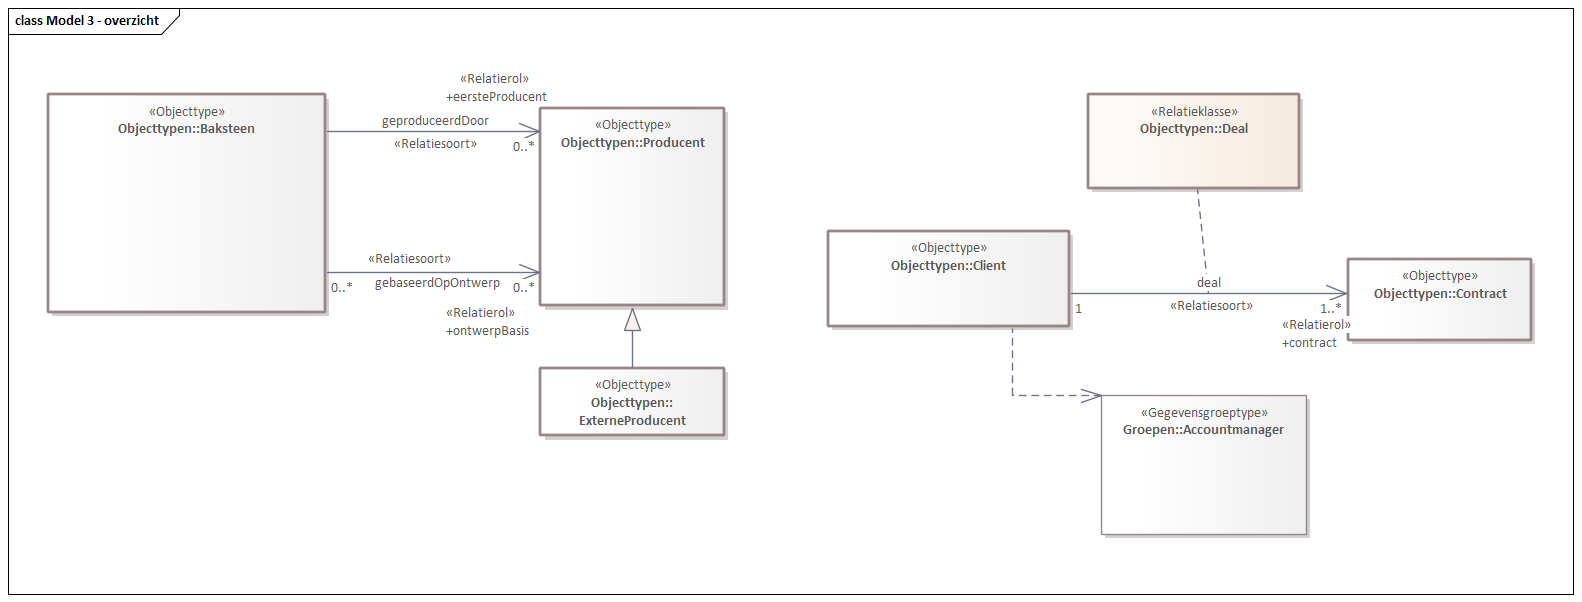
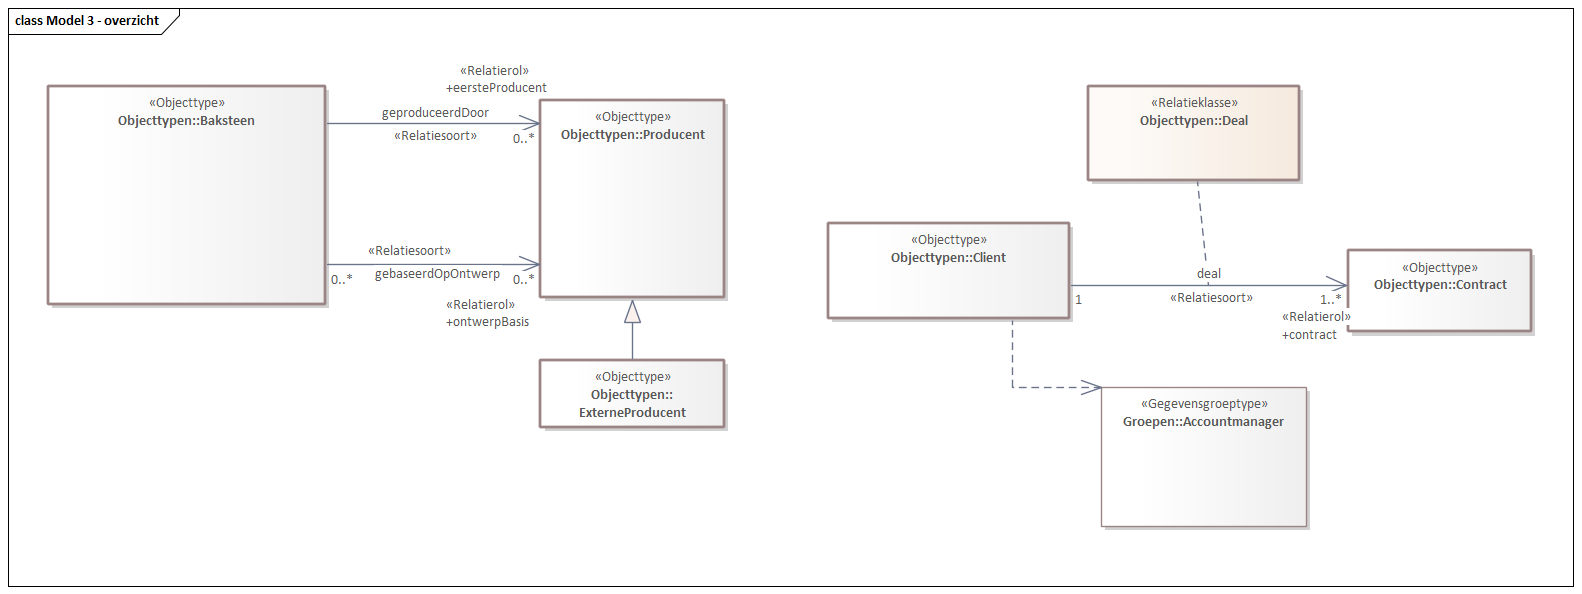
MIMLM-Bakstenenconceptueelmodel-1.0.0-2-20130318-20261003-111207

diff --git a/data/SAMPLE-cat.respec.full.html b/data/SAMPLE-cat.respec.full.html
@@ -2,7 +2,7 @@
                         var respecConfig = {
                             specStatus: "ED",
                             editors: [{
-                                name: "unspecified, Geonovum",
+                                name: "AdminGeonovum, Geonovum",
                                 url: "http://your.site/",
                             }],
                             edDraftURI: "http://some.place",
@@ -17,7 +17,7 @@
                             Status van dit document ...HIER INVOEGEN
                         </p></section><section id="prologue" class="informative" level="1"><h1>Proloog</h1><p>
                             Introductie ...HIER INVOEGEN
-                        </p></section><section id="cat" class="normative"><h2>Gegevensdefinitie</h2><!--MIMCM-Bakstenenconceptueelmodel-1.0.0-2-20130318-20261003-110517 imvertor Nightly-build.0--><section id="global_packages"><h3>Model   Bakstenen conceptueel model</h3><section id="EAID_08513AA0_8A50_46c1_AD86_9B80D9A6AAE1"><h4>   Model 3 - overzicht</h4><div class="imageinfo overview"><figure class="uml-diagram"><img id="img-EAID_08513AA0_8A50_46c1_AD86_9B80D9A6AAE1" src="data/Images/EAID_08513AA0_8A50_46c1_AD86_9B80D9A6AAE1.png" usemap="#imagemap-EAID_08513AA0_8A50_46c1_AD86_9B80D9A6AAE1" alt="Diagram: Uitleg van dit diagram &#34;Model 3&#34;."><figcaption> ‒ Diagram: Model 3</figcaption></figure><map name="imagemap-EAID_08513AA0_8A50_46c1_AD86_9B80D9A6AAE1"><area shape="rect" alt="Accountmanager" coords="1101,395,1307,535" href="#global_class_Contract_Accountmanager"><area shape="rect" alt="ExterneProducent" coords="540,368,725,436" href="#global_class_Baksteenproductie_ExterneProducent"><area shape="rect" alt="Baksteen" coords="48,94,326,313" href="#global_class_Baksteenproductie_Baksteen"><area shape="rect" alt="Producent" coords="540,108,725,306" href="#global_class_Baksteenproductie_Producent"><area shape="rect" alt="Deal" coords="1088,94,1300,189" href="#global_class_Contract_Deal"><area shape="rect" alt="Contract" coords="1348,259,1532,341" href="#global_class_Contract_Contract"><area shape="rect" alt="Client" coords="828,231,1070,327" href="#global_class_Contract_Client"></map><p>
+                        </p></section><section id="cat" class="normative"><h2>Gegevensdefinitie</h2><!--MIMLM-Bakstenenconceptueelmodel-1.0.0-2-20130318-20261003-111207 imvertor Nightly-build.0--><section id="global_packages"><h3>Model   Bakstenen conceptueel model</h3><section id="EAID_08513AA0_8A50_46c1_AD86_9B80D9A6AAE1"><h4>   Model 3 - overzicht</h4><div class="imageinfo overview"><figure class="uml-diagram"><img id="img-EAID_08513AA0_8A50_46c1_AD86_9B80D9A6AAE1" src="data/Images/EAID_08513AA0_8A50_46c1_AD86_9B80D9A6AAE1.png" usemap="#imagemap-EAID_08513AA0_8A50_46c1_AD86_9B80D9A6AAE1" alt="Diagram: Uitleg van dit diagram &#34;Model 3&#34;."><figcaption> ‒ Diagram: Model 3</figcaption></figure><map name="imagemap-EAID_08513AA0_8A50_46c1_AD86_9B80D9A6AAE1"><area shape="rect" alt="Accountmanager" coords="1101,387,1307,527" href="#global_class_Contract_Accountmanager"><area shape="rect" alt="ExterneProducent" coords="540,360,725,428" href="#global_class_Baksteenproductie_ExterneProducent"><area shape="rect" alt="Baksteen" coords="48,86,326,305" href="#global_class_Baksteenproductie_Baksteen"><area shape="rect" alt="Producent" coords="540,100,725,298" href="#global_class_Baksteenproductie_Producent"><area shape="rect" alt="Deal" coords="1088,86,1300,181" href="#global_class_Contract_Deal"><area shape="rect" alt="Contract" coords="1348,250,1532,332" href="#global_class_Contract_Contract"><area shape="rect" alt="Client" coords="828,223,1070,319" href="#global_class_Contract_Client"></map><p>
                         <p>Uitleg van dit diagram "<i>Model 3</i>".</p>
                         <p></p>
                         <p></p>
@@ -27,7 +27,7 @@
                         <p></p>
                      </p></div></section><section><h4>Objecttypen   </h4>
             <section id="global_class_Baksteenproductie_Baksteen"><h5>   Baksteen</h5>
-               <section id="EAID_EB759E5B_3FAA_4064_A73E_704926072F89"><h6>   Baksteen 2 - detail</h6><div class="imageinfo "><figure class="uml-diagram"><img id="img-EAID_EB759E5B_3FAA_4064_A73E_704926072F89" src="data/Images/EAID_EB759E5B_3FAA_4064_A73E_704926072F89.png" usemap="#imagemap-EAID_EB759E5B_3FAA_4064_A73E_704926072F89" alt="Diagram: Uitleg van dit diagram &#34;Baksteen 2&#34;."><figcaption> ‒ Diagram: Baksteen 2</figcaption></figure><map name="imagemap-EAID_EB759E5B_3FAA_4064_A73E_704926072F89"><area shape="rect" alt="Producent" coords="259,68,416,208" href="#global_class_Baksteenproductie_Producent"><area shape="rect" alt="Baksteen" coords="238,324,480,659" href="#global_class_Baksteenproductie_Baksteen"></map><p>
+               <section id="EAID_EB759E5B_3FAA_4064_A73E_704926072F89"><h6>   Baksteen 2 - detail</h6><div class="imageinfo "><figure class="uml-diagram"><img id="img-EAID_EB759E5B_3FAA_4064_A73E_704926072F89" src="data/Images/EAID_EB759E5B_3FAA_4064_A73E_704926072F89.png" usemap="#imagemap-EAID_EB759E5B_3FAA_4064_A73E_704926072F89" alt="Diagram: Uitleg van dit diagram &#34;Baksteen 2&#34;."><figcaption> ‒ Diagram: Baksteen 2</figcaption></figure><map name="imagemap-EAID_EB759E5B_3FAA_4064_A73E_704926072F89"><area shape="rect" alt="Producent" coords="164,68,322,208" href="#global_class_Baksteenproductie_Producent"><area shape="rect" alt="Baksteen" coords="144,324,386,659" href="#global_class_Baksteenproductie_Baksteen"></map><p>
                               <p>Uitleg van dit diagram "<i>Baksteen 2</i>".</p>
                               <p></p>
                               <p></p>
@@ -73,7 +73,7 @@
                         </td></tr></tbody></table>
                
                <h6>Overzicht constraints  </h6>
-                  <table style="width: 100%;"><colgroup style="width: 30%;"></colgroup><colgroup style="width: 70%;"></colgroup><tbody><tr><th scope="col">Naam</th><th scope="col">Uitleg</th></tr><tr><th scope="row"><a class="link" href="#detail_d22351e2583">
+                  <table style="width: 100%;"><colgroup style="width: 30%;"></colgroup><colgroup style="width: 70%;"></colgroup><tbody><tr><th scope="col">Naam</th><th scope="col">Uitleg</th></tr><tr><th scope="row"><a class="link" href="#detail_d22357e2583">
                               baksteen-constraint
                            </a></th><td></td></tr></tbody></table>
                
@@ -280,7 +280,7 @@
                                     <p>De eerste producent is de maker die als eerste met de baksteen op de markt is gekomen, en de steen nog levert.</p>
                                  </td></tr><tr><th scope="row">Herkomst definitie</th><td> </td></tr><tr><th scope="row">Datum opname</th><td> </td></tr><tr><th scope="row">Gerelateerd objecttype</th><td><a class="link" href="#global_class_Baksteenproductie_Producent">Producent</a></td></tr><tr><th scope="row">Kardinaliteit</th><td>0 .. *</td></tr><tr><th scope="row">Indicatie kardinaliteit bron</th><td>1</td></tr><tr><th scope="row">Indicatie authentiek</th><td>  </td></tr><tr><th scope="row">Mogelijk geen waarde</th><td>Nee</td></tr></tbody></table>
                   </div>
-                  <div class="deepheader" id="detail_d22351e2583"><strong>Constraint details  <a href="#global_class_Baksteenproductie_Baksteen">Baksteen</a> baksteen-constraint</strong>
+                  <div class="deepheader" id="detail_d22357e2583"><strong>Constraint details  <a href="#global_class_Baksteenproductie_Baksteen">Baksteen</a> baksteen-constraint</strong>
                      <table style="width: 100%;"><colgroup style="width: 30%;"></colgroup><colgroup style="width: 70%;"></colgroup><tbody><tr><th scope="row">OCL</th><td>Constraint op objecttype Baksteen.</td></tr></tbody></table>
                   </div>
                </section>
@@ -393,7 +393,7 @@
                   <table style="width: 100%;"><colgroup style="width: 50%;"></colgroup><colgroup style="width: 50%;"></colgroup><tbody><tr><th scope="col">Rol naam met kardinaliteiten</th><th scope="col">Definitie</th></tr><tr><td>Contract [ 1 ] <a class="link" href="#detail_association_Contract_Contract_adres2rol">adres1relatie: adres2rol</a> <a class="link" href="#global_class_Contract_Adres">Adres</a> [ 1 ]</td><td></td></tr></tbody></table>
                
                <h6>Overzicht constraints  </h6>
-                  <table style="width: 100%;"><colgroup style="width: 30%;"></colgroup><colgroup style="width: 70%;"></colgroup><tbody><tr><th scope="col">Naam</th><th scope="col">Uitleg</th></tr><tr><th scope="row"><a class="link" href="#detail_d22351e6543">
+                  <table style="width: 100%;"><colgroup style="width: 30%;"></colgroup><colgroup style="width: 70%;"></colgroup><tbody><tr><th scope="col">Naam</th><th scope="col">Uitleg</th></tr><tr><th scope="row"><a class="link" href="#detail_d22357e6543">
                               constraint1
                            </a></th><td> commentaar </td></tr></tbody></table>
                
@@ -423,7 +423,7 @@
                         </td><td>DAY</td><td>1</td></tr></tbody></table>
                
                <h6>Overzicht constraints  </h6>
-                  <table style="width: 100%;"><colgroup style="width: 30%;"></colgroup><colgroup style="width: 70%;"></colgroup><tbody><tr><th scope="col">Naam</th><th scope="col">Uitleg</th></tr><tr><th scope="row"><a class="link" href="#detail_d22351e7087">
+                  <table style="width: 100%;"><colgroup style="width: 30%;"></colgroup><colgroup style="width: 70%;"></colgroup><tbody><tr><th scope="col">Naam</th><th scope="col">Uitleg</th></tr><tr><th scope="row"><a class="link" href="#detail_d22357e7087">
                               constraint-relatieklasse
                            </a></th><td></td></tr></tbody></table>
                
@@ -449,7 +449,7 @@
                   <table style="width: 100%;"><colgroup style="width: 50%;"></colgroup><colgroup style="width: 50%;"></colgroup><tbody><tr><th scope="col">Rol naam met kardinaliteiten</th><th scope="col">Definitie</th></tr><tr><td>Accountmanager [ 1 ] <a class="link" href="#detail_association_Contract_Accountmanager_adres2rol">adres2relatie: adres2rol</a> <a class="link" href="#global_class_Contract_Adres">Adres</a> [ 1 ]</td><td></td></tr></tbody></table>
                
                <h6>Overzicht constraints  </h6>
-                  <table style="width: 100%;"><colgroup style="width: 30%;"></colgroup><colgroup style="width: 70%;"></colgroup><tbody><tr><th scope="col">Naam</th><th scope="col">Uitleg</th></tr><tr><th scope="row"><a class="link" href="#detail_d22351e5644">
+                  <table style="width: 100%;"><colgroup style="width: 30%;"></colgroup><colgroup style="width: 70%;"></colgroup><tbody><tr><th scope="col">Naam</th><th scope="col">Uitleg</th></tr><tr><th scope="row"><a class="link" href="#detail_d22357e5644">
                               Gegevensgroeptype-constraint
                            </a></th><td></td></tr></tbody></table>
                
@@ -477,7 +477,7 @@
                      
                      <table style="width: 100%;"><colgroup style="width: 30%;"></colgroup><colgroup style="width: 70%;"></colgroup><tbody><tr><th scope="row">Naam</th><td>adres1relatie</td></tr><tr><th scope="row">Herkomst</th><td> </td></tr><tr><th scope="row">Definitie</th><td> </td></tr><tr><th scope="row">Herkomst definitie</th><td> </td></tr><tr><th scope="row">Datum opname</th><td> </td></tr><tr><th scope="row">Gerelateerd objecttype</th><td><a class="link" href="#global_class_Contract_Adres">Adres</a></td></tr><tr><th scope="row">Kardinaliteit</th><td>1</td></tr><tr><th scope="row">Indicatie kardinaliteit bron</th><td>1</td></tr><tr><th scope="row">Indicatie authentiek</th><td>Authentiek</td></tr><tr><th scope="row">Mogelijk geen waarde</th><td>Nee</td></tr></tbody></table>
                   </div>
-                  <div class="deepheader" id="detail_d22351e6543"><strong>Constraint details  <a href="#global_class_Contract_Contract">Contract</a> constraint1</strong>
+                  <div class="deepheader" id="detail_d22357e6543"><strong>Constraint details  <a href="#global_class_Contract_Contract">Contract</a> constraint1</strong>
                      <table style="width: 100%;"><colgroup style="width: 30%;"></colgroup><colgroup style="width: 70%;"></colgroup><tbody><tr><th scope="row">Natuurlijke taal</th><td> commentaar </td></tr><tr><th scope="row">OCL</th><td> OCL of beschrijving van constraint1</td></tr></tbody></table>
                   </div>
                </section>
@@ -499,7 +499,7 @@
                      
                      <table style="width: 100%;"><colgroup style="width: 30%;"></colgroup><colgroup style="width: 70%;"></colgroup><tbody><tr><th scope="row">Naam</th><td>adres2relatie</td></tr><tr><th scope="row">Herkomst</th><td> </td></tr><tr><th scope="row">Definitie</th><td> </td></tr><tr><th scope="row">Herkomst definitie</th><td> </td></tr><tr><th scope="row">Datum opname</th><td> </td></tr><tr><th scope="row">Gerelateerd objecttype</th><td><a class="link" href="#global_class_Contract_Adres">Adres</a></td></tr><tr><th scope="row">Kardinaliteit</th><td>1</td></tr><tr><th scope="row">Indicatie kardinaliteit bron</th><td>1</td></tr><tr><th scope="row">Indicatie authentiek</th><td>Authentiek</td></tr><tr><th scope="row">Mogelijk geen waarde</th><td>Nee</td></tr></tbody></table>
                   </div>
-                  <div class="deepheader" id="detail_d22351e5644"><strong>Constraint details  <a href="#global_class_Contract_Accountmanager">Accountmanager</a> Gegevensgroeptype-constraint</strong>
+                  <div class="deepheader" id="detail_d22357e5644"><strong>Constraint details  <a href="#global_class_Contract_Accountmanager">Accountmanager</a> Gegevensgroeptype-constraint</strong>
                      <table style="width: 100%;"><colgroup style="width: 30%;"></colgroup><colgroup style="width: 70%;"></colgroup><tbody><tr><th scope="row">OCL</th><td>Constraint op gegevesngroeptype Accountmanager.</td></tr></tbody></table>
                   </div>
                </section>
@@ -526,7 +526,7 @@
                                     <p>De eerstvolgende dag dat voor de client een feest is.</p>
                                  </td></tr><tr><th scope="row">Herkomst definitie</th><td> </td></tr><tr><th scope="row">Datum opname</th><td> </td></tr><tr><th scope="row">Formaat</th><td>DAY</td></tr><tr><th scope="row">Patroon</th><td>De verzameling van waarden die gegevens van deze attribuutsoort kunnen hebben (bereik)  danwel moeten voldoen aan een specifiek patroon.</td></tr><tr><th scope="row">Kardinaliteit</th><td>1</td></tr><tr><th scope="row">Indicatie authentiek</th><td>  </td></tr><tr><th scope="row">Toelichting</th><td>Een inhoudelijke toelichting op de attribuutsoort.</td></tr><tr><th scope="row">Indicatie afleidbaar</th><td>Zie package</td></tr><tr><th scope="row">Indicatie classificerend</th><td> </td></tr><tr><th scope="row">Mogelijk geen waarde</th><td>Nee</td></tr><tr><th scope="row">Indicatie identificerend</th><td>Nee</td></tr></tbody></table>
                   </div>
-                  <div class="deepheader" id="detail_d22351e7087"><strong>Constraint details  <a href="#global_class_Contract_Deal">Deal</a> constraint-relatieklasse</strong>
+                  <div class="deepheader" id="detail_d22357e7087"><strong>Constraint details  <a href="#global_class_Contract_Deal">Deal</a> constraint-relatieklasse</strong>
                      <table style="width: 100%;"><colgroup style="width: 30%;"></colgroup><colgroup style="width: 70%;"></colgroup><tbody><tr><th scope="row">OCL</th><td>Constraint op relatieklasse Deal.</td></tr></tbody></table>
                   </div>
                </section>
@@ -534,7 +534,7 @@
             
             
             
-         </section></section></section><section id="lis" class="normative"><h2>Inhoud van waardelijsten</h2><!--MIMCM-Bakstenenconceptueelmodel-1.0.0-2-20130318-20261003-110517 imvertor Nightly-build.0--><section><h3>Referentielijst inhoud   </h3><section id="detail_class_Baksteenproductie_Baksteentype"><h4>Referentielijst  Baksteentype</h4>
+         </section></section></section><section id="lis" class="normative"><h2>Inhoud van waardelijsten</h2><!--MIMLM-Bakstenenconceptueelmodel-1.0.0-2-20130318-20261003-111207 imvertor Nightly-build.0--><section><h3>Referentielijst inhoud   </h3><section id="detail_class_Baksteenproductie_Baksteentype"><h4>Referentielijst  Baksteentype</h4>
             <table style="width: 100%;" class="list"><colgroup></colgroup><tbody><tr><td>
                         <p>Type van baksteen.</p>
                       

diff --git a/data/SAMPLE-cat.respec.html b/data/SAMPLE-cat.respec.html
@@ -1,4 +1,4 @@
-<!DOCTYPE HTML><section id="cat" class="normative"><h2>Gegevensdefinitie</h2><!--MIMCM-Bakstenenconceptueelmodel-1.0.0-2-20130318-20261003-110517 imvertor Nightly-build.0--><section id="global_packages"><h3>Model   Bakstenen conceptueel model</h3><section id="EAID_08513AA0_8A50_46c1_AD86_9B80D9A6AAE1"><h4>   Model 3 - overzicht</h4><div class="imageinfo overview"><figure class="uml-diagram"><img id="img-EAID_08513AA0_8A50_46c1_AD86_9B80D9A6AAE1" src="data/Images/EAID_08513AA0_8A50_46c1_AD86_9B80D9A6AAE1.png" usemap="#imagemap-EAID_08513AA0_8A50_46c1_AD86_9B80D9A6AAE1" alt="Diagram: Uitleg van dit diagram &#34;Model 3&#34;."><figcaption> ‒ Diagram: Model 3</figcaption></figure><map name="imagemap-EAID_08513AA0_8A50_46c1_AD86_9B80D9A6AAE1"><area shape="rect" alt="Accountmanager" coords="1101,395,1307,535" href="#global_class_Contract_Accountmanager"><area shape="rect" alt="ExterneProducent" coords="540,368,725,436" href="#global_class_Baksteenproductie_ExterneProducent"><area shape="rect" alt="Baksteen" coords="48,94,326,313" href="#global_class_Baksteenproductie_Baksteen"><area shape="rect" alt="Producent" coords="540,108,725,306" href="#global_class_Baksteenproductie_Producent"><area shape="rect" alt="Deal" coords="1088,94,1300,189" href="#global_class_Contract_Deal"><area shape="rect" alt="Contract" coords="1348,259,1532,341" href="#global_class_Contract_Contract"><area shape="rect" alt="Client" coords="828,231,1070,327" href="#global_class_Contract_Client"></map><p>
+<!DOCTYPE HTML><section id="cat" class="normative"><h2>Gegevensdefinitie</h2><!--MIMLM-Bakstenenconceptueelmodel-1.0.0-2-20130318-20261003-111207 imvertor Nightly-build.0--><section id="global_packages"><h3>Model   Bakstenen conceptueel model</h3><section id="EAID_08513AA0_8A50_46c1_AD86_9B80D9A6AAE1"><h4>   Model 3 - overzicht</h4><div class="imageinfo overview"><figure class="uml-diagram"><img id="img-EAID_08513AA0_8A50_46c1_AD86_9B80D9A6AAE1" src="data/Images/EAID_08513AA0_8A50_46c1_AD86_9B80D9A6AAE1.png" usemap="#imagemap-EAID_08513AA0_8A50_46c1_AD86_9B80D9A6AAE1" alt="Diagram: Uitleg van dit diagram &#34;Model 3&#34;."><figcaption> ‒ Diagram: Model 3</figcaption></figure><map name="imagemap-EAID_08513AA0_8A50_46c1_AD86_9B80D9A6AAE1"><area shape="rect" alt="Accountmanager" coords="1101,387,1307,527" href="#global_class_Contract_Accountmanager"><area shape="rect" alt="ExterneProducent" coords="540,360,725,428" href="#global_class_Baksteenproductie_ExterneProducent"><area shape="rect" alt="Baksteen" coords="48,86,326,305" href="#global_class_Baksteenproductie_Baksteen"><area shape="rect" alt="Producent" coords="540,100,725,298" href="#global_class_Baksteenproductie_Producent"><area shape="rect" alt="Deal" coords="1088,86,1300,181" href="#global_class_Contract_Deal"><area shape="rect" alt="Contract" coords="1348,250,1532,332" href="#global_class_Contract_Contract"><area shape="rect" alt="Client" coords="828,223,1070,319" href="#global_class_Contract_Client"></map><p>
                         <p>Uitleg van dit diagram "<i>Model 3</i>".</p>
                         <p></p>
                         <p></p>
@@ -8,7 +8,7 @@
                         <p></p>
                      </p></div></section><section><h4>Objecttypen   </h4>
             <section id="global_class_Baksteenproductie_Baksteen"><h5>   Baksteen</h5>
-               <section id="EAID_EB759E5B_3FAA_4064_A73E_704926072F89"><h6>   Baksteen 2 - detail</h6><div class="imageinfo "><figure class="uml-diagram"><img id="img-EAID_EB759E5B_3FAA_4064_A73E_704926072F89" src="data/Images/EAID_EB759E5B_3FAA_4064_A73E_704926072F89.png" usemap="#imagemap-EAID_EB759E5B_3FAA_4064_A73E_704926072F89" alt="Diagram: Uitleg van dit diagram &#34;Baksteen 2&#34;."><figcaption> ‒ Diagram: Baksteen 2</figcaption></figure><map name="imagemap-EAID_EB759E5B_3FAA_4064_A73E_704926072F89"><area shape="rect" alt="Producent" coords="259,68,416,208" href="#global_class_Baksteenproductie_Producent"><area shape="rect" alt="Baksteen" coords="238,324,480,659" href="#global_class_Baksteenproductie_Baksteen"></map><p>
+               <section id="EAID_EB759E5B_3FAA_4064_A73E_704926072F89"><h6>   Baksteen 2 - detail</h6><div class="imageinfo "><figure class="uml-diagram"><img id="img-EAID_EB759E5B_3FAA_4064_A73E_704926072F89" src="data/Images/EAID_EB759E5B_3FAA_4064_A73E_704926072F89.png" usemap="#imagemap-EAID_EB759E5B_3FAA_4064_A73E_704926072F89" alt="Diagram: Uitleg van dit diagram &#34;Baksteen 2&#34;."><figcaption> ‒ Diagram: Baksteen 2</figcaption></figure><map name="imagemap-EAID_EB759E5B_3FAA_4064_A73E_704926072F89"><area shape="rect" alt="Producent" coords="164,68,322,208" href="#global_class_Baksteenproductie_Producent"><area shape="rect" alt="Baksteen" coords="144,324,386,659" href="#global_class_Baksteenproductie_Baksteen"></map><p>
                               <p>Uitleg van dit diagram "<i>Baksteen 2</i>".</p>
                               <p></p>
                               <p></p>
@@ -54,7 +54,7 @@
                         </td></tr></tbody></table>
                
                <h6>Overzicht constraints  </h6>
-                  <table style="width: 100%;"><colgroup style="width: 30%;"></colgroup><colgroup style="width: 70%;"></colgroup><tbody><tr><th scope="col">Naam</th><th scope="col">Uitleg</th></tr><tr><th scope="row"><a class="link" href="#detail_d22351e2583">
+                  <table style="width: 100%;"><colgroup style="width: 30%;"></colgroup><colgroup style="width: 70%;"></colgroup><tbody><tr><th scope="col">Naam</th><th scope="col">Uitleg</th></tr><tr><th scope="row"><a class="link" href="#detail_d22357e2583">
                               baksteen-constraint
                            </a></th><td></td></tr></tbody></table>
                
@@ -261,7 +261,7 @@
                                     <p>De eerste producent is de maker die als eerste met de baksteen op de markt is gekomen, en de steen nog levert.</p>
                                  </td></tr><tr><th scope="row">Herkomst definitie</th><td> </td></tr><tr><th scope="row">Datum opname</th><td> </td></tr><tr><th scope="row">Gerelateerd objecttype</th><td><a class="link" href="#global_class_Baksteenproductie_Producent">Producent</a></td></tr><tr><th scope="row">Kardinaliteit</th><td>0 .. *</td></tr><tr><th scope="row">Indicatie kardinaliteit bron</th><td>1</td></tr><tr><th scope="row">Indicatie authentiek</th><td>  </td></tr><tr><th scope="row">Mogelijk geen waarde</th><td>Nee</td></tr></tbody></table>
                   </div>
-                  <div class="deepheader" id="detail_d22351e2583"><strong>Constraint details  <a href="#global_class_Baksteenproductie_Baksteen">Baksteen</a> baksteen-constraint</strong>
+                  <div class="deepheader" id="detail_d22357e2583"><strong>Constraint details  <a href="#global_class_Baksteenproductie_Baksteen">Baksteen</a> baksteen-constraint</strong>
                      <table style="width: 100%;"><colgroup style="width: 30%;"></colgroup><colgroup style="width: 70%;"></colgroup><tbody><tr><th scope="row">OCL</th><td>Constraint op objecttype Baksteen.</td></tr></tbody></table>
                   </div>
                </section>
@@ -374,7 +374,7 @@
                   <table style="width: 100%;"><colgroup style="width: 50%;"></colgroup><colgroup style="width: 50%;"></colgroup><tbody><tr><th scope="col">Rol naam met kardinaliteiten</th><th scope="col">Definitie</th></tr><tr><td>Contract [ 1 ] <a class="link" href="#detail_association_Contract_Contract_adres2rol">adres1relatie: adres2rol</a> <a class="link" href="#global_class_Contract_Adres">Adres</a> [ 1 ]</td><td></td></tr></tbody></table>
                
                <h6>Overzicht constraints  </h6>
-                  <table style="width: 100%;"><colgroup style="width: 30%;"></colgroup><colgroup style="width: 70%;"></colgroup><tbody><tr><th scope="col">Naam</th><th scope="col">Uitleg</th></tr><tr><th scope="row"><a class="link" href="#detail_d22351e6543">
+                  <table style="width: 100%;"><colgroup style="width: 30%;"></colgroup><colgroup style="width: 70%;"></colgroup><tbody><tr><th scope="col">Naam</th><th scope="col">Uitleg</th></tr><tr><th scope="row"><a class="link" href="#detail_d22357e6543">
                               constraint1
                            </a></th><td> commentaar </td></tr></tbody></table>
                
@@ -404,7 +404,7 @@
                         </td><td>DAY</td><td>1</td></tr></tbody></table>
                
                <h6>Overzicht constraints  </h6>
-                  <table style="width: 100%;"><colgroup style="width: 30%;"></colgroup><colgroup style="width: 70%;"></colgroup><tbody><tr><th scope="col">Naam</th><th scope="col">Uitleg</th></tr><tr><th scope="row"><a class="link" href="#detail_d22351e7087">
+                  <table style="width: 100%;"><colgroup style="width: 30%;"></colgroup><colgroup style="width: 70%;"></colgroup><tbody><tr><th scope="col">Naam</th><th scope="col">Uitleg</th></tr><tr><th scope="row"><a class="link" href="#detail_d22357e7087">
                               constraint-relatieklasse
                            </a></th><td></td></tr></tbody></table>
                
@@ -430,7 +430,7 @@
                   <table style="width: 100%;"><colgroup style="width: 50%;"></colgroup><colgroup style="width: 50%;"></colgroup><tbody><tr><th scope="col">Rol naam met kardinaliteiten</th><th scope="col">Definitie</th></tr><tr><td>Accountmanager [ 1 ] <a class="link" href="#detail_association_Contract_Accountmanager_adres2rol">adres2relatie: adres2rol</a> <a class="link" href="#global_class_Contract_Adres">Adres</a> [ 1 ]</td><td></td></tr></tbody></table>
                
                <h6>Overzicht constraints  </h6>
-                  <table style="width: 100%;"><colgroup style="width: 30%;"></colgroup><colgroup style="width: 70%;"></colgroup><tbody><tr><th scope="col">Naam</th><th scope="col">Uitleg</th></tr><tr><th scope="row"><a class="link" href="#detail_d22351e5644">
+                  <table style="width: 100%;"><colgroup style="width: 30%;"></colgroup><colgroup style="width: 70%;"></colgroup><tbody><tr><th scope="col">Naam</th><th scope="col">Uitleg</th></tr><tr><th scope="row"><a class="link" href="#detail_d22357e5644">
                               Gegevensgroeptype-constraint
                            </a></th><td></td></tr></tbody></table>
                
@@ -458,7 +458,7 @@
                      
                      <table style="width: 100%;"><colgroup style="width: 30%;"></colgroup><colgroup style="width: 70%;"></colgroup><tbody><tr><th scope="row">Naam</th><td>adres1relatie</td></tr><tr><th scope="row">Herkomst</th><td> </td></tr><tr><th scope="row">Definitie</th><td> </td></tr><tr><th scope="row">Herkomst definitie</th><td> </td></tr><tr><th scope="row">Datum opname</th><td> </td></tr><tr><th scope="row">Gerelateerd objecttype</th><td><a class="link" href="#global_class_Contract_Adres">Adres</a></td></tr><tr><th scope="row">Kardinaliteit</th><td>1</td></tr><tr><th scope="row">Indicatie kardinaliteit bron</th><td>1</td></tr><tr><th scope="row">Indicatie authentiek</th><td>Authentiek</td></tr><tr><th scope="row">Mogelijk geen waarde</th><td>Nee</td></tr></tbody></table>
                   </div>
-                  <div class="deepheader" id="detail_d22351e6543"><strong>Constraint details  <a href="#global_class_Contract_Contract">Contract</a> constraint1</strong>
+                  <div class="deepheader" id="detail_d22357e6543"><strong>Constraint details  <a href="#global_class_Contract_Contract">Contract</a> constraint1</strong>
                      <table style="width: 100%;"><colgroup style="width: 30%;"></colgroup><colgroup style="width: 70%;"></colgroup><tbody><tr><th scope="row">Natuurlijke taal</th><td> commentaar </td></tr><tr><th scope="row">OCL</th><td> OCL of beschrijving van constraint1</td></tr></tbody></table>
                   </div>
                </section>
@@ -480,7 +480,7 @@
                      
                      <table style="width: 100%;"><colgroup style="width: 30%;"></colgroup><colgroup style="width: 70%;"></colgroup><tbody><tr><th scope="row">Naam</th><td>adres2relatie</td></tr><tr><th scope="row">Herkomst</th><td> </td></tr><tr><th scope="row">Definitie</th><td> </td></tr><tr><th scope="row">Herkomst definitie</th><td> </td></tr><tr><th scope="row">Datum opname</th><td> </td></tr><tr><th scope="row">Gerelateerd objecttype</th><td><a class="link" href="#global_class_Contract_Adres">Adres</a></td></tr><tr><th scope="row">Kardinaliteit</th><td>1</td></tr><tr><th scope="row">Indicatie kardinaliteit bron</th><td>1</td></tr><tr><th scope="row">Indicatie authentiek</th><td>Authentiek</td></tr><tr><th scope="row">Mogelijk geen waarde</th><td>Nee</td></tr></tbody></table>
                   </div>
-                  <div class="deepheader" id="detail_d22351e5644"><strong>Constraint details  <a href="#global_class_Contract_Accountmanager">Accountmanager</a> Gegevensgroeptype-constraint</strong>
+                  <div class="deepheader" id="detail_d22357e5644"><strong>Constraint details  <a href="#global_class_Contract_Accountmanager">Accountmanager</a> Gegevensgroeptype-constraint</strong>
                      <table style="width: 100%;"><colgroup style="width: 30%;"></colgroup><colgroup style="width: 70%;"></colgroup><tbody><tr><th scope="row">OCL</th><td>Constraint op gegevesngroeptype Accountmanager.</td></tr></tbody></table>
                   </div>
                </section>
@@ -507,7 +507,7 @@
                                     <p>De eerstvolgende dag dat voor de client een feest is.</p>
                                  </td></tr><tr><th scope="row">Herkomst definitie</th><td> </td></tr><tr><th scope="row">Datum opname</th><td> </td></tr><tr><th scope="row">Formaat</th><td>DAY</td></tr><tr><th scope="row">Patroon</th><td>De verzameling van waarden die gegevens van deze attribuutsoort kunnen hebben (bereik)  danwel moeten voldoen aan een specifiek patroon.</td></tr><tr><th scope="row">Kardinaliteit</th><td>1</td></tr><tr><th scope="row">Indicatie authentiek</th><td>  </td></tr><tr><th scope="row">Toelichting</th><td>Een inhoudelijke toelichting op de attribuutsoort.</td></tr><tr><th scope="row">Indicatie afleidbaar</th><td>Zie package</td></tr><tr><th scope="row">Indicatie classificerend</th><td> </td></tr><tr><th scope="row">Mogelijk geen waarde</th><td>Nee</td></tr><tr><th scope="row">Indicatie identificerend</th><td>Nee</td></tr></tbody></table>
                   </div>
-                  <div class="deepheader" id="detail_d22351e7087"><strong>Constraint details  <a href="#global_class_Contract_Deal">Deal</a> constraint-relatieklasse</strong>
+                  <div class="deepheader" id="detail_d22357e7087"><strong>Constraint details  <a href="#global_class_Contract_Deal">Deal</a> constraint-relatieklasse</strong>
                      <table style="width: 100%;"><colgroup style="width: 30%;"></colgroup><colgroup style="width: 70%;"></colgroup><tbody><tr><th scope="row">OCL</th><td>Constraint op relatieklasse Deal.</td></tr></tbody></table>
                   </div>
                </section>
@@ -515,7 +515,7 @@
             
             
             
-         </section></section></section><section id="lis" class="normative"><h2>Inhoud van waardelijsten</h2><!--MIMCM-Bakstenenconceptueelmodel-1.0.0-2-20130318-20261003-110517 imvertor Nightly-build.0--><section><h3>Referentielijst inhoud   </h3><section id="detail_class_Baksteenproductie_Baksteentype"><h4>Referentielijst  Baksteentype</h4>
+         </section></section></section><section id="lis" class="normative"><h2>Inhoud van waardelijsten</h2><!--MIMLM-Bakstenenconceptueelmodel-1.0.0-2-20130318-20261003-111207 imvertor Nightly-build.0--><section><h3>Referentielijst inhoud   </h3><section id="detail_class_Baksteenproductie_Baksteentype"><h4>Referentielijst  Baksteentype</h4>
             <table style="width: 100%;" class="list"><colgroup></colgroup><tbody><tr><td>
                         <p>Type van baksteen.</p>
                       
